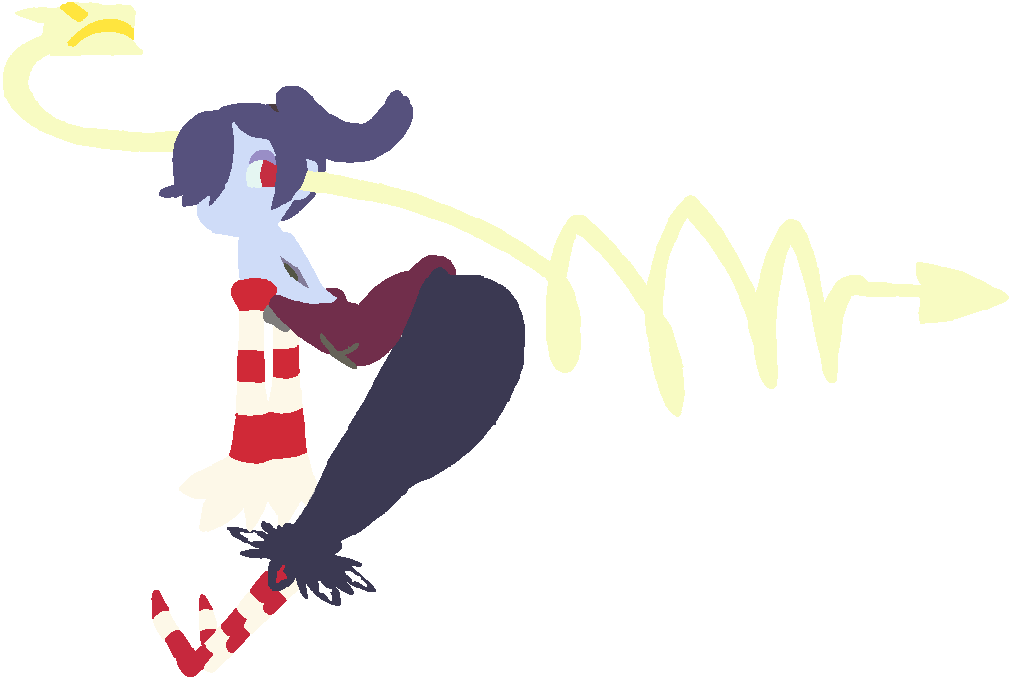
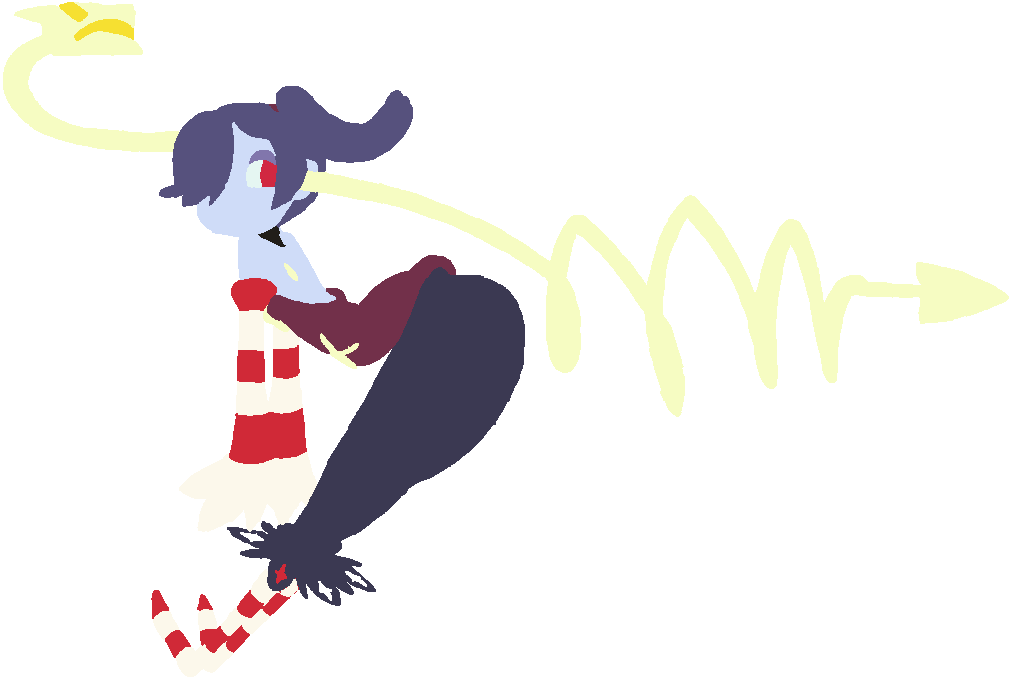
+custom & revisions

diff --git a/directory.js b/directory.js
@@ -779,6 +779,7 @@ var ids = {
         "custom/yixtu_qu/bigband2",
         "custom/yixtu_qu/big_band_bubble",
         "custom/yixtu_qu/blackdahlia",
+        "custom/yixtu_qu/blackdahlia2",
         "custom/yixtu_qu/bloodymarie",
         "custom/yixtu_qu/bonnie",
         "custom/yixtu_qu/bookie",
@@ -815,6 +816,7 @@ var ids = {
         "custom/yixtu_qu/marie4",
         "custom/yixtu_qu/minette",
         "custom/yixtu_qu/minette2",
+        "custom/yixtu_qu/minette3",
         "custom/yixtu_qu/msfortune",
         "custom/yixtu_qu/msfortune2",
         "custom/yixtu_qu/msfortune_faceup",
@@ -834,6 +836,7 @@ var ids = {
         "custom/yixtu_qu/squigly2",
         "custom/yixtu_qu/squigly3",
         "custom/yixtu_qu/squigly4",
+        "custom/yixtu_qu/squigly5",
         "custom/yixtu_qu/squigly_concept",
         "custom/yixtu_qu/squigly_jumping",
         "custom/yixtu_qu/umbrella",
